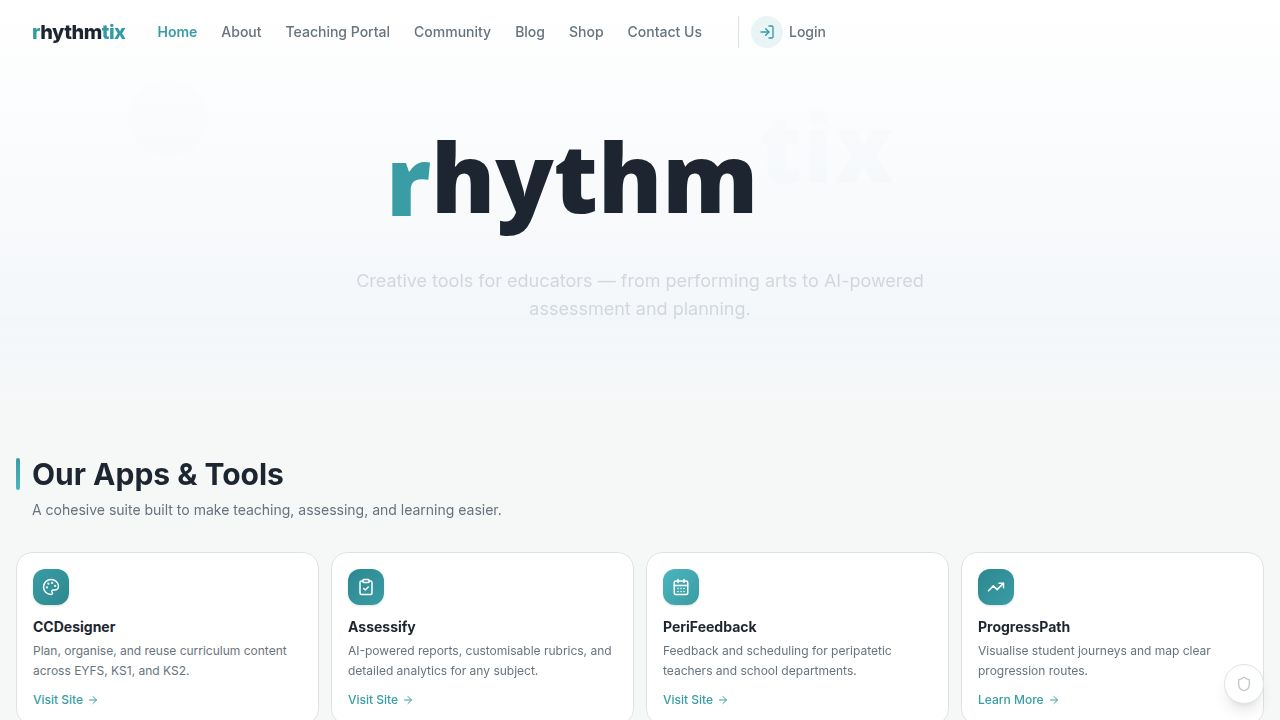
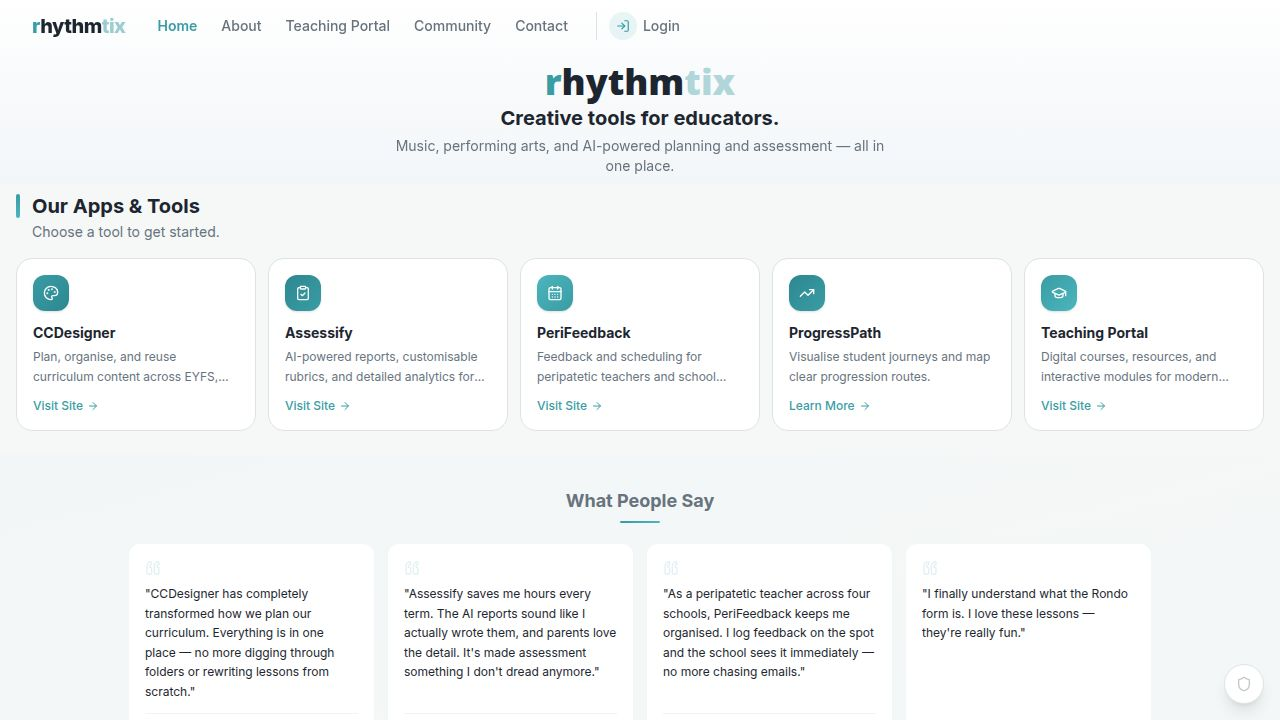
Update homepage to improve visual hierarchy and simplify navigation
Adjust hero section height, move app section higher, and remove shop/blog from main navigation by modifying Hero.tsx, ProductGrid.tsx, and Navbar.tsx.

Replit-Commit-Author: Agent
Replit-Commit-Session-Id: 36072dfe-37d2-4df3-bb00-9305c8f35feb
Replit-Commit-Checkpoint-Type: full_checkpoint
Replit-Commit-Event-Id: 93a396bd-98f1-4432-b90a-e0f0c14e50a3
Replit-Commit-Screenshot-Url: https://storage.googleapis.com/screenshot-production-us-central1/55c12ff6-894c-4ead-a5d9-26d6f85943a6/36072dfe-37d2-4df3-bb00-9305c8f35feb/qDLzzsH
Replit-Helium-Checkpoint-Created: true

diff --git a/artifacts/rhythmstix-web/src/components/home/Hero.tsx b/artifacts/rhythmstix-web/src/components/home/Hero.tsx
@@ -6,28 +6,28 @@ export function Hero() {
     <section className="relative overflow-hidden">
       <div className="absolute inset-0 bg-gradient-to-b from-white via-slate-50/80 to-slate-100/60" />
 
-      <div className="container relative z-10 mx-auto px-4 pt-20 pb-6">
+      <div className="container relative z-10 mx-auto px-4 pt-16 pb-2">
         <div className="max-w-2xl mx-auto text-center">
           <motion.div
             initial={{ opacity: 0, y: -10 }}
             animate={{ opacity: 1, y: 0 }}
             transition={{ duration: 0.4 }}
-            className="mb-2 flex items-baseline justify-center"
+            className="mb-1 flex items-baseline justify-center"
           >
             <span
-              className="text-4xl sm:text-5xl font-black text-[#3a9ca5] leading-none"
+              className="text-3xl sm:text-4xl font-black text-[#3a9ca5] leading-none"
               style={{ fontFamily: "'Poppins', sans-serif" }}
             >
               r
             </span>
             <span
-              className="text-4xl sm:text-5xl font-black text-foreground leading-none"
+              className="text-3xl sm:text-4xl font-black text-foreground leading-none"
               style={{ fontFamily: "'Poppins', sans-serif" }}
             >
               hythm
             </span>
             <span
-              className="text-4xl sm:text-5xl font-black text-[#3a9ca5]/40 leading-none"
+              className="text-3xl sm:text-4xl font-black text-[#3a9ca5]/40 leading-none"
               style={{ fontFamily: "'Poppins', sans-serif" }}
             >
               tix
@@ -38,7 +38,7 @@ export function Hero() {
             initial={{ opacity: 0, y: 8 }}
             animate={{ opacity: 1, y: 0 }}
             transition={{ duration: 0.4, delay: 0.15 }}
-            className="text-lg sm:text-xl md:text-2xl font-bold text-foreground mb-1.5"
+            className="text-base sm:text-lg md:text-xl font-bold text-foreground mb-1"
           >
             <EditableText
               contentKey="hero.heading"
@@ -51,13 +51,13 @@ export function Hero() {
             initial={{ opacity: 0, y: 8 }}
             animate={{ opacity: 1, y: 0 }}
             transition={{ duration: 0.4, delay: 0.25 }}
-            className="text-sm text-muted-foreground max-w-md mx-auto"
+            className="text-xs sm:text-sm text-muted-foreground max-w-lg mx-auto"
           >
             <EditableText
               contentKey="hero.description"
-              fallback="From performing arts to AI-powered assessment and planning."
+              fallback="Music, performing arts, and AI-powered planning and assessment — all in one place."
               as="span"
-              className="text-sm text-muted-foreground"
+              className="text-xs sm:text-sm text-muted-foreground"
             />
           </motion.p>
         </div>

diff --git a/artifacts/rhythmstix-web/src/components/home/ProductGrid.tsx b/artifacts/rhythmstix-web/src/components/home/ProductGrid.tsx
@@ -99,26 +99,26 @@ function ProductCard({ product, index }: { product: typeof PRODUCTS[number]; ind
 
 export function ProductGrid() {
   return (
-    <section id="products" className="pt-4 pb-8 relative">
+    <section id="products" className="pt-2 pb-6 relative">
       <div className="container mx-auto px-4">
         <motion.div
           initial={{ opacity: 0, y: 10 }}
           whileInView={{ opacity: 1, y: 0 }}
           viewport={{ once: true }}
-          className="mb-5"
+          className="mb-4"
         >
-          <div className="flex items-center gap-3 mb-1">
-            <div className="w-1 h-7 rounded-full bg-gradient-to-b from-[#3a9ca5] to-[#4cb5bd]" />
+          <div className="flex items-center gap-3 mb-0.5">
+            <div className="w-1 h-6 rounded-full bg-gradient-to-b from-[#3a9ca5] to-[#4cb5bd]" />
             <EditableText
               contentKey="products.heading"
               fallback="Our Apps & Tools"
               as="h2"
-              className="text-xl md:text-2xl font-bold"
+              className="text-lg md:text-xl font-bold"
             />
           </div>
           <EditableText
             contentKey="products.subheading"
-            fallback="Choose a tool to plan, teach, or assess."
+            fallback="Choose a tool to get started."
             as="p"
             className="text-muted-foreground text-sm ml-4"
           />

diff --git a/artifacts/rhythmstix-web/src/components/layout/Navbar.tsx b/artifacts/rhythmstix-web/src/components/layout/Navbar.tsx
@@ -11,7 +11,6 @@ const NAV_LINKS = [
   { label: "About", href: "/page/about" },
   { label: "Teaching Portal", href: "https://app.rhythmstix.co.uk/", external: true },
   { label: "Community", href: "/community" },
-  { label: "Shop", href: "/shop" },
   { label: "Contact", href: "/contact" },
 ];
 
@@ -49,7 +48,7 @@ export function Navbar() {
             </span>
           </Link>
 
-          <nav className="hidden md:flex items-center gap-5 mr-auto">
+          <nav className="hidden md:flex items-center gap-6 mr-auto">
             {NAV_LINKS.map((link) => {
               const active = !(link as any).external && isActive(link.href, location);
               const cls = cn(
@@ -67,7 +66,7 @@ export function Navbar() {
               );
             })}
 
-            <div className="ml-2 pl-2 border-l border-border">
+            <div className="ml-1 pl-3 border-l border-border">
               {isAuthenticated ? (
                 <Link href="/account" className="flex items-center gap-1.5 text-sm font-medium text-muted-foreground hover:text-[rgb(52,154,167)] transition-colors" title="Account">
                   <div className="w-7 h-7 rounded-full bg-[rgb(52,154,167)]/10 flex items-center justify-center">

diff --git a/replit.md b/replit.md
@@ -132,6 +132,7 @@ about, assessify, periplanner, blog, community, contact-us, learning-platform, s
 - `public/images/rhythmstix-logo-new.png` — New logo with updated branding
 - `public/images/rhythmstix-logo-white.png` — White logo (dark backgrounds)
 - Navbar/footer use text-only "rhythmstix" wordmark (no monogram box)
+- Main nav: Home, About, Teaching Portal, Community, Contact, Login (Shop & Blog moved to footer + mobile menu only)
 
 #### User Authentication & Account
 - `src/hooks/use-auth.ts` — Auth hooks (useAuth, useOrders, forgotPassword)